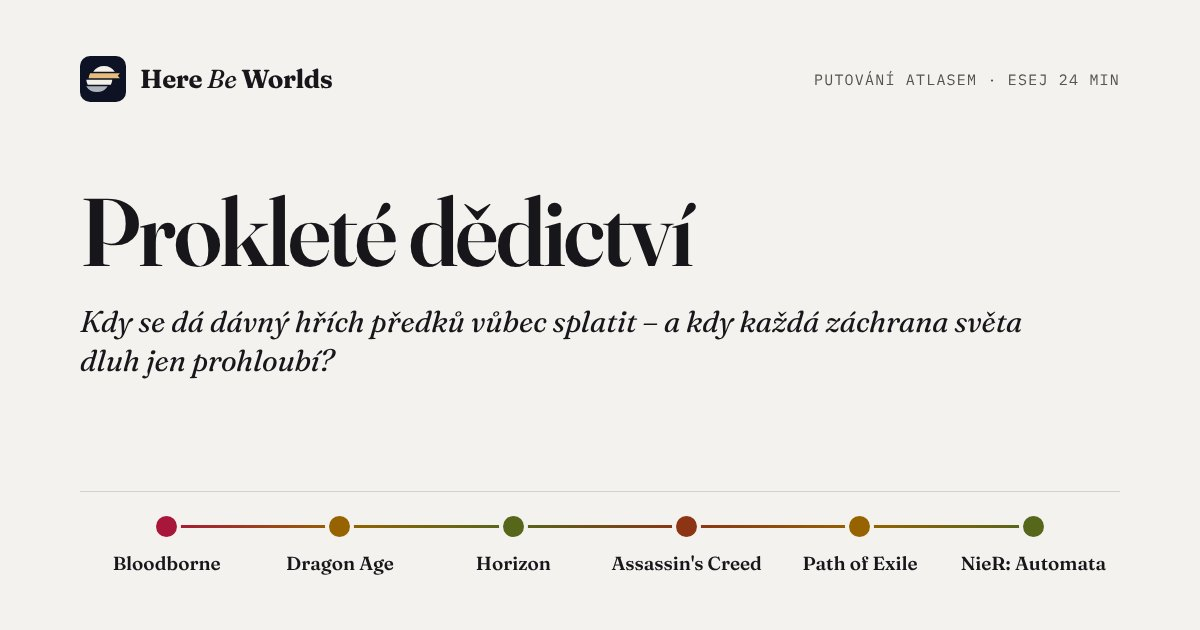
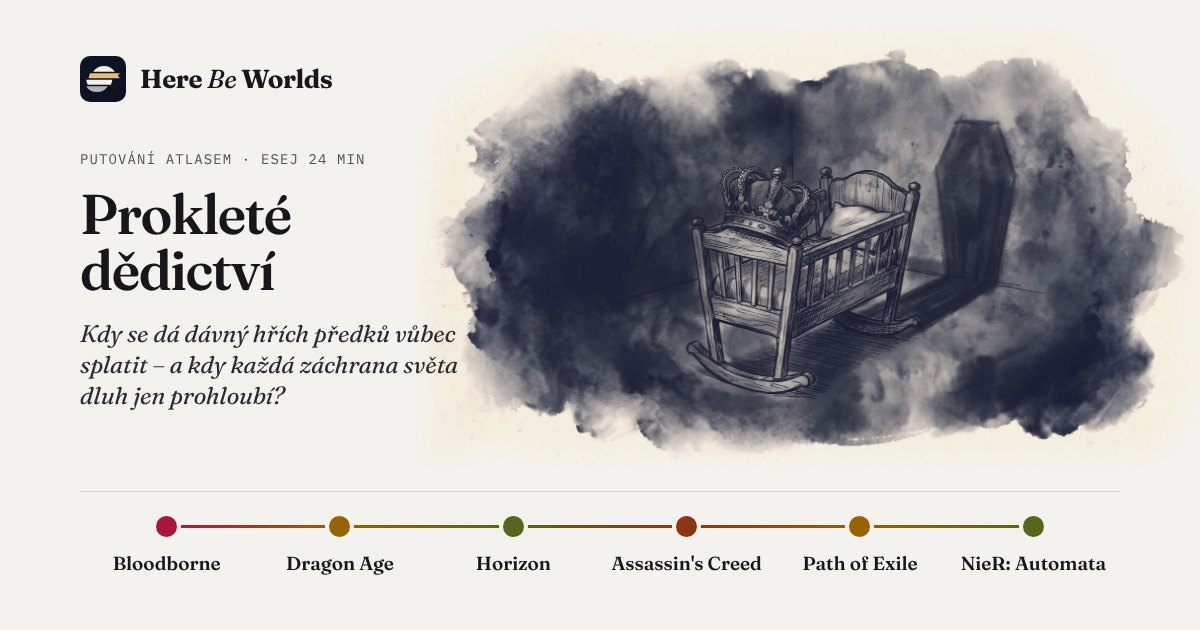
Obrázky k putování Prokleté dědictví: kolébka se stínem rakve, řetěz s dětským poutem, šperkovnice s mléčnými zuby
Claude-Session: https://claude.ai/code/session_01B7obWLKHHEWxurZ5a1svnf

diff --git a/src/lib/trail-images.ts b/src/lib/trail-images.ts
@@ -23,6 +23,7 @@ export const READY: Record<TrailId, number> = {
   'knows-you-play': 3,
   scapegoat: 3,
   'who-woke-up': 3,
+  'cursed-legacy': 3,
 };
 
 const DIR = 'putovani-obrazky';

diff --git a/docs/obrazky-putovani.md b/docs/obrazky-putovani.md
@@ -11,7 +11,7 @@ Stav 2026-11-23: styl nalezený po pěti kolech zkoušek (náhled `/putovani/nav
 - **Jedna myšlenka, malý předmět (majitel 2026-11-23, po nepovedeném kole Uvězněni v kruhu):** velké přeplněné scény (had s průvodem poutníků, nekonečné schodiště, ptačí klec se světem, koleje s planetami) majitel zamítl jako tematicky nesevřené a „poznat, že je to AI“. Nosná je jedna myšlenka na jednom malém předmětu nebo polocelku (vzor: kamenné víčko, žebřík opřený o nebe, gramofon). Vedlejší motivy jen tam, kde tvoří hlavní tvar (most z kořenů, copů a prádla), ne jako zástup figurek a symbolů.
 - **Víc motivů k objevování:** hlavní tvar ať je složený z několika nečekaných předmětů, které člověk objeví až při delším pohledu (vzor: most z dlažby, kořenů, copů a šňůr s prádlem; majitel 2026-11-23). Jen když dávají jednomu tvaru smysl, nikdy jako výčet symbolů tématu.
 - **Neopakovat se, nečekaný znepokojivý detail (majitel 2026-11-25, u Prokletého dědictví):** napříč putováními se začaly opakovat stejné rekvizity (klíčky, zrcadla, obrazy, botičky, stopy) a majitel to zamítl: „chce to přijít s něčím nečekaným, a o to víc znepokojivým, musí tam být nějaký nečekaný moment, detail“. Vzor: kolébka s korunou, jejíž stín na zdi je rakev. Postup: obyčejný předmět (domácí, dětský, rodinný), který na první pohled nic nenaznačuje, a jediný detail, který ho na druhý pohled převrátí. Před návrhem motivů projít seznam níže a nesáhnout po ničem, co v něm už je; když se rekvizita přece jen hodí, říct to majiteli předem. Témata smějí být temná a zlověstná, bez krve a násilí (v promptu `Avoid: … gore`; u temných putování Mood „ominous surrealism … heavy with dread“ místo „quiet“).
-- **Už použité rekvizity (doplňovat po každém putování):** klíče a klíčové dírky (klíč stočený do kruhu, měsíc jako klíčová dírka) · zrcadla (rukavice a zrcátko, zamlžené zrcadlo) · obrazy a rámy (stín, který vypadl z obrazu) · boty a stopy (stopy ve sněhu, prázdné boty u žebříku) · prázdné oděvy (plášť na trůnu, kabát ukazující cestu, rukavice) · žebra a kosti jako stavivo (katedrála ze žeber, jablko se žebry) · trůny (plášť na trůnu, trůn s břízou) · knihy, deníky a dopisy (postavička z knihy, můra z deníku, dopisy z hlavy sochy, hranice srolovaných dopisů) · hodiny (kavalerie z rozbitých hodin) · světla (lucerna, svíčka, oheň u gramofonu) · koště a brky (koště z brků) · kouř (sirka z kouře, beránek z kouře) · nábytek a pokoje (křesla za sklem, okno s pokojem na pláni, koberec nad jámou) · stín jako odhalení (stín klíče, stín z obrazu, stín chapadel u pulce, stín rakve u kolébky) · ostatní: městečko na jevišti s roztrženým nebem, vajíčko ve vajíčku, kamenné víčko, domy otáčející se za chodcem, most z dlažby, kořenů, copů a prádla, prapory z hejn ptáků, kolotoč z děl, žebřík opřený o nebe, gramofon s hvězdami, sklenice s pulcem, mince na hraně.
+- **Už použité rekvizity (doplňovat po každém putování):** klíče a klíčové dírky (klíč stočený do kruhu, měsíc jako klíčová dírka) · zrcadla (rukavice a zrcátko, zamlžené zrcadlo) · obrazy a rámy (stín, který vypadl z obrazu) · boty a stopy (stopy ve sněhu, prázdné boty u žebříku) · prázdné oděvy (plášť na trůnu, kabát ukazující cestu, rukavice) · žebra a kosti jako stavivo (katedrála ze žeber, jablko se žebry) · trůny (plášť na trůnu, trůn s břízou) · knihy, deníky a dopisy (postavička z knihy, můra z deníku, dopisy z hlavy sochy, hranice srolovaných dopisů) · hodiny (kavalerie z rozbitých hodin) · světla (lucerna, svíčka, oheň u gramofonu) · koště a brky (koště z brků) · kouř (sirka z kouře, beránek z kouře) · nábytek a pokoje (křesla za sklem, okno s pokojem na pláni, koberec nad jámou) · stín jako odhalení (stín klíče, stín z obrazu, stín chapadel u pulce, stín rakve u kolébky) · ostatní: městečko na jevišti s roztrženým nebem, vajíčko ve vajíčku, kamenné víčko, domy otáčející se za chodcem, most z dlažby, kořenů, copů a prádla, prapory z hejn ptáků, kolotoč z děl, žebřík opřený o nebe, gramofon s hvězdami, sklenice s pulcem, mince na hraně, řetěz s dětským poutem, šperkovnice s mléčnými zuby (a kolébka v seznamu stínů).
 - **Světlo:** výchozí je **čistě modrá tuš bez zlaté**. Zlatá (#E5BE7E) jen výjimečně, když ji řádek scény výslovně jmenuje a je jádrem motivu (klíčová dírka na nebi, oheň u gramofonu). Gemini jinak zlatou přidává sám (okénka, lucerny), protože ji má vzorový obrázek: proto prompt výslovně zakazuje převzít lampu ze vzoru (majitel 2026-11-23: „pořád stejné rozsvícené okýnko a lucerna“).
 - **Motiv:** detail nebo polocelek, ne velká scéna. Obraz s druhým čtením: na první pohled obyčejný, na druhý nese otázku eseje. Prázdný prostor kolem.
 - **Nikdy:** text, písmena, podpisy, rámečky; postavy, loga a místa z her; náboženské symboly; lidé (nanejvýš drobná postava zezadu, když to motiv potřebuje); cákance tuše; airbrush; uhlazená digitální linka.
@@ -23,7 +23,7 @@ Stav 2026-11-23: styl nalezený po pěti kolech zkoušek (náhled `/putovani/nav
 - Masky: `maska/<slug>-N.png` podle tuše pro tmavý motiv (`python3 scripts/ink-masks.py`, pak zkopírovat z `navrh-obrazku/maska/`, nebo upravit cestu ve skriptu), `maska/freska.png` obecná.
 - Které putování obrázky má: `READY` v `src/lib/trail-images.ts`. Obrázky se ukážou jen u schválené eseje.
 - Rejstřík `/putovani/` má rozvržení karet ve dvou sloupcích s obrázkem nahoře (C, vybráno ze tří variant: A obraz za textem, B střídavé desky). Dokud nemají obrázky všechna putování, stojí vedle karty s obrázkem textové karty.
-- Na webu (2026-11-23): Hra ví, že ji hraješ (městečko na jevišti s roztrženým namalovaným nebem; postavička vylezlá z ilustrace v knize; stín, který vypadl z obrazu na podlahu); Na mrtvole boha (tři: prázdný plášť na trůnu držený provazy davu; trůn, kterým prorůstá bříza; jablko s žebry místo jádřince); Netvor v zrcadle (zatím jeden: stopy ve sněhu, které se z bot mění v tlapy); Mluví už jen mrtví (tři: prázdný kabát, který ukazuje cestu; můra s křídly z deníku; potopená hlava sochy, z níž stoupají listy dopisu k loďce); Uvězněni v kruhu (tři: klíč stočený do kruhu se stínem rovného klíče; vajíčko ve vajíčku; z kouře dohořelé sirky nová sirka); Bohové jako břemeno (katedrála ze žeber, kamenné víčko); Město, které dýchá (domy, které se otáčejí za chodcem; most z dlažby, kořenů, copů a prádla); Dům, ze kterého nejde odejít (měsíc jako zlatá klíčová dírka nad městečkem, okno uprostřed pláně s pokojem uvnitř). Válka, kterou nikdo nevyhraje (tři obrázky: prapory z hejn ptáků, kolotoč z děl, kavalerie z rozbitých hodin se svíčkou v temnu); Pod lhostejnými hvězdami (žebřík opřený o nebe s prázdnými botami a lucernou, gramofon, ze kterého se sypou hvězdy, u táboráku); Kdo za to může? (tři: prázdná rukavice ukazuje na zrcátko a odraz ukazuje zpět na diváka; koberec, pod jehož rohem je jáma se schody a koště z brků; z hranice srolovaných dopisů odplouvá kouř jako spící beránek, 2026-11-25); Kdo se to probudil? (tři: zamlžené zrcadlo nad umyvadlem, v jehož setřeném pruhu je další zrcadlo; dvě stejná křesla v pokoji rozděleném sklem, které prochází mincí na hraně; sklenice s pulcem, jehož stín na zdi jsou chapadla; 2026-11-25). Postup: 5 motivů, vybrat 2. **Motivy: surrealismus a neobvyklé kompozice, klidně velké měřítko a zachycený pohyb (Magritte, Dalí), neobvyklé spojení předmětů (v duchu Magritta), jen lehce doslovné** — první kolo s doslovnými motivy (tapeta, dveře, kolébka) majitel zamítl jako nenápadité. Do promptu řádek `Mood: subtle surrealism in the spirit of Magritte: one unexpected combination, quiet and uncanny, never literal or explanatory. Rich in discoverable detail: several unexpected secondary motifs are woven into the main forms, so the viewer keeps finding new things on a second look.` Po přidání prvního obrázku obnovit kartu pro sdílení: `npm run og -- <slug> putovani` (fonty a Chromium viz CLAUDE.md). Masky: `python3 scripts/ink-masks.py public/putovani-obrazky/<slug>-1.jpg …`; když je světlý papír uprostřed součástí motivu (mezera mezi konci mostu), přidej `--fill`. Skript dělá dvě masky: `<soubor>.png` pro tmavý motiv a širokou `<soubor>-light.png` pro světlý (papír tam schová multiply a lehké vybělení `brightness(1.06) saturate(0.8)`, maska nesmí zamlžit slabé tahy; majitel 2026-11-23). Ve světlém motivu se v eseji kresba ořezává jen širokou maskou (fresková by ořízla tahy štětce nahoře a stopy u spodního okraje); v tmavém motivu (esej i rejstřík) jen fresková maska: tvar je vždy **zvlněný obdélník do ztracena**, nikdy vykrojený podle skvrn tuše (majitel 2026-11-23). Zkoušený okraj podle tahů štětce se světlým lemem majitel zamítl jako „příliš“: v tmavém motivu okraje nebudou tak působivé jako ve světlém a je to tak správně; v rejstříku zůstává i fresková (obrázek je tam oříznutý na 3 : 2).
+- Na webu (2026-11-23): Hra ví, že ji hraješ (městečko na jevišti s roztrženým namalovaným nebem; postavička vylezlá z ilustrace v knize; stín, který vypadl z obrazu na podlahu); Na mrtvole boha (tři: prázdný plášť na trůnu držený provazy davu; trůn, kterým prorůstá bříza; jablko s žebry místo jádřince); Netvor v zrcadle (zatím jeden: stopy ve sněhu, které se z bot mění v tlapy); Mluví už jen mrtví (tři: prázdný kabát, který ukazuje cestu; můra s křídly z deníku; potopená hlava sochy, z níž stoupají listy dopisu k loďce); Uvězněni v kruhu (tři: klíč stočený do kruhu se stínem rovného klíče; vajíčko ve vajíčku; z kouře dohořelé sirky nová sirka); Bohové jako břemeno (katedrála ze žeber, kamenné víčko); Město, které dýchá (domy, které se otáčejí za chodcem; most z dlažby, kořenů, copů a prádla); Dům, ze kterého nejde odejít (měsíc jako zlatá klíčová dírka nad městečkem, okno uprostřed pláně s pokojem uvnitř). Válka, kterou nikdo nevyhraje (tři obrázky: prapory z hejn ptáků, kolotoč z děl, kavalerie z rozbitých hodin se svíčkou v temnu); Pod lhostejnými hvězdami (žebřík opřený o nebe s prázdnými botami a lucernou, gramofon, ze kterého se sypou hvězdy, u táboráku); Kdo za to může? (tři: prázdná rukavice ukazuje na zrcátko a odraz ukazuje zpět na diváka; koberec, pod jehož rohem je jáma se schody a koště z brků; z hranice srolovaných dopisů odplouvá kouř jako spící beránek, 2026-11-25); Kdo se to probudil? (tři: zamlžené zrcadlo nad umyvadlem, v jehož setřeném pruhu je další zrcadlo; dvě stejná křesla v pokoji rozděleném sklem, které prochází mincí na hraně; sklenice s pulcem, jehož stín na zdi jsou chapadla; 2026-11-25); Prokleté dědictví (tři: kolébka s korunou, jejíž stín je rakev, křížek na koruně vyretušovaný; řetěz z praskliny v zemi s otevřeným dětským poutem, hnědý nádech řetězu převedený do indiga; šperkovnice s náhrdelníkem z mléčných zubů; 2026-11-25). Postup: 5 motivů, vybrat 2. **Motivy: surrealismus a neobvyklé kompozice, klidně velké měřítko a zachycený pohyb (Magritte, Dalí), neobvyklé spojení předmětů (v duchu Magritta), jen lehce doslovné** — první kolo s doslovnými motivy (tapeta, dveře, kolébka) majitel zamítl jako nenápadité. Do promptu řádek `Mood: subtle surrealism in the spirit of Magritte: one unexpected combination, quiet and uncanny, never literal or explanatory. Rich in discoverable detail: several unexpected secondary motifs are woven into the main forms, so the viewer keeps finding new things on a second look.` Po přidání prvního obrázku obnovit kartu pro sdílení: `npm run og -- <slug> putovani` (fonty a Chromium viz CLAUDE.md). Masky: `python3 scripts/ink-masks.py public/putovani-obrazky/<slug>-1.jpg …`; když je světlý papír uprostřed součástí motivu (mezera mezi konci mostu), přidej `--fill`. Skript dělá dvě masky: `<soubor>.png` pro tmavý motiv a širokou `<soubor>-light.png` pro světlý (papír tam schová multiply a lehké vybělení `brightness(1.06) saturate(0.8)`, maska nesmí zamlžit slabé tahy; majitel 2026-11-23). Ve světlém motivu se v eseji kresba ořezává jen širokou maskou (fresková by ořízla tahy štětce nahoře a stopy u spodního okraje); v tmavém motivu (esej i rejstřík) jen fresková maska: tvar je vždy **zvlněný obdélník do ztracena**, nikdy vykrojený podle skvrn tuše (majitel 2026-11-23). Zkoušený okraj podle tahů štětce se světlým lemem majitel zamítl jako „příliš“: v tmavém motivu okraje nebudou tak působivé jako ve světlém a je to tak správně; v rejstříku zůstává i fresková (obrázek je tam oříznutý na 3 : 2).
 
 ## Jak generovat
 

diff --git a/CLAUDE.md b/CLAUDE.md
@@ -83,7 +83,7 @@ Kroniky a eseje **nejsou** v `data/`.
 | `/notes/` | `src/pages/notes/index.astro` | `NotesPage` — obsah oddílů (lepí se pod hlavičku, oddíl, který čteš, je podtržený; na telefonu jeden řádek posuvný do strany, 2026-11-25), rejstříkový seznam pojmů (štítek vlevo, výklad vpravo), legenda 1–5 jako pruh os; oddíly Charakter světa · Profil světa · Triáda (tři pojmy s odkazy do Anatomie a do Galerie triád / Mapy neznáma, pod nimi typy hříchů, dilemata, druhy tajemství a kdo drží mezeru s ikonami – texty z `triad-types.json`, 2026-11-24 se souhlasem majitele) · Příbuznost světů (4 pilíře, 5 stupňů slovy, bez procent) · Kompas a ladění · Hlubina času (2026-11-25 s pokynem majitele: šest pojmů – sloupec a hladina, období her a rysky, dějiny a fundamentální události, odhad, mýtus a cyklus, stupnice, naše časová osa – a odkaz na stránku; `noteDeepTime*`) · Kánon (texty v `data/meta/notes.ts`) |
 | `/anatomie-herniho-lore/` | `src/pages/anatomie-herniho-lore/index.astro` | `EssayPage` (obsah `ReadingToc` vlevo, čtecí sloupec jako kronika, doba čtení pod podtitulem) |
 | `/teoreticke-zazemi/` | `src/pages/teoreticke-zazemi/index.astro` | `EssayPage` z `content/essays/teoreticke-zazemi.md`: prameny atlasu po oblastech (fikční světy, fantastika, herní studia, hrůza a posvátno, mýtus, paměť, osoba a identita, moc a dohled, dílna tvůrců), tabulka pojmů, výhrady k autorům, co by sem ještě patřilo, seznam literatury. Odkaz z Anatomie (oddíl Na čem metoda stojí) a z patičky. **Po zapracování nové knihy doplnit i sem.** |
-| `/putovani/` | `src/pages/putovani/index.astro` | `TrailsIndex` (`src/components/trails/`, styly `trails.css`): hlavička jako atlas, filtry **Svět** a **Téma** (rozsvítí stezky, kterými svět prochází / které se tématu dotýkají, ostatní ztlumí; `?svet=<id>`, `?tema=<slug>`; klik na téma v řádku dělá totéž, jméno světa v kartě vede rovnou na spis světa (majitel 2026-11-24)); rejstřík 22 stezek jako **karty ve dvou sloupcích** (rozvržení C, majitel 2026-11-23; karta: obrázek nahoře přes celou šířku karty do ztracena, 3 : 2, pak název, popis, světy s linkou v barvě archetypu nad každým jménem, témata eseje jako hranaté štítky na tónovaném podkladu (vybrané téma v akcentu) = `themes` v `trails.ts`, 2–4 na stezku, a za nimi „Esej · N min“; karta bez obrázku je jen text; na telefonu jeden sloupec); oddíl **Kde se stezky kříží** (mřížka stezky × všechny světy podle abecedy, i ty na jediné stezce, vpravo počet (majitel 2026-11-22), tečka v barvě archetypu, pod kurzorem se rozsvítí sloupec i řádek, názvy stezek nahoře i dole; na telefonu seznam dvanácti nejvíc křížených světů). V hlavičce webu odkaz Putování hned za Atlasem; Putování dne na titulní straně vedou na stránky putování. Staré adresy `/stezky/…` přesměrovávají (`src/pages/stezky/`, `RedirectPage.astro`). Obrázky k putováním (jediné místo na webu s obrázky): styl a postup `docs/obrazky-putovani.md`, soubory `public/putovani-obrazky/`, seznam `READY` v `src/lib/trail-images.ts`; náhled v rejstříku (`TrailsIndex images`) a v eseji pod úvodním citátem a uprostřed (`EssayPage hero/hero2/heroLive`), okraj do ztracena maskou. Zatím Bohové jako břemeno, Dům, ze kterého nejde odejít, Pod lhostejnými hvězdami, Válka, kterou nikdo nevyhraje, Město, které dýchá, Uvězněni v kruhu, Mluví už jen mrtví, Netvor v zrcadle, Na mrtvole boha, Hra ví, že ji hraješ, Kdo za to může? a Kdo se to probudil?. Zkušební náhled `/putovani/navrh-obrazku/` (noindex). |
+| `/putovani/` | `src/pages/putovani/index.astro` | `TrailsIndex` (`src/components/trails/`, styly `trails.css`): hlavička jako atlas, filtry **Svět** a **Téma** (rozsvítí stezky, kterými svět prochází / které se tématu dotýkají, ostatní ztlumí; `?svet=<id>`, `?tema=<slug>`; klik na téma v řádku dělá totéž, jméno světa v kartě vede rovnou na spis světa (majitel 2026-11-24)); rejstřík 22 stezek jako **karty ve dvou sloupcích** (rozvržení C, majitel 2026-11-23; karta: obrázek nahoře přes celou šířku karty do ztracena, 3 : 2, pak název, popis, světy s linkou v barvě archetypu nad každým jménem, témata eseje jako hranaté štítky na tónovaném podkladu (vybrané téma v akcentu) = `themes` v `trails.ts`, 2–4 na stezku, a za nimi „Esej · N min“; karta bez obrázku je jen text; na telefonu jeden sloupec); oddíl **Kde se stezky kříží** (mřížka stezky × všechny světy podle abecedy, i ty na jediné stezce, vpravo počet (majitel 2026-11-22), tečka v barvě archetypu, pod kurzorem se rozsvítí sloupec i řádek, názvy stezek nahoře i dole; na telefonu seznam dvanácti nejvíc křížených světů). V hlavičce webu odkaz Putování hned za Atlasem; Putování dne na titulní straně vedou na stránky putování. Staré adresy `/stezky/…` přesměrovávají (`src/pages/stezky/`, `RedirectPage.astro`). Obrázky k putováním (jediné místo na webu s obrázky): styl a postup `docs/obrazky-putovani.md`, soubory `public/putovani-obrazky/`, seznam `READY` v `src/lib/trail-images.ts`; náhled v rejstříku (`TrailsIndex images`) a v eseji pod úvodním citátem a uprostřed (`EssayPage hero/hero2/heroLive`), okraj do ztracena maskou. Zatím Bohové jako břemeno, Dům, ze kterého nejde odejít, Pod lhostejnými hvězdami, Válka, kterou nikdo nevyhraje, Město, které dýchá, Uvězněni v kruhu, Mluví už jen mrtví, Netvor v zrcadle, Na mrtvole boha, Hra ví, že ji hraješ, Kdo za to může?, Kdo se to probudil? a Prokleté dědictví. Zkušební náhled `/putovani/navrh-obrazku/` (noindex). |
 | `/putovani/[id]/` | `src/pages/putovani/[id].astro` | Stránka každého putování, adresa = český slug z `TRAIL_SLUGS` (`trails.ts`), stejný jako soubor eseje v `content/trails/`. `EssayPage` s `trail`: pod hlavičkou `TrailCast` (světy) a `TrailThemes` (témata → `/putovani/?tema=`), před Zdroji `TrailWorlds` (souřadnice s výraznými názvy, seznam světů s archetypem a podžánrem). **Esej se ukáže jen s `approved: true` ve frontmatteru** (schvaluje majitel); jinak stránka ukáže rámeček „Esej připravujeme“, Světy putování a oddíl „Na čem putování stojí“ (jména pramenů z tabulky Prameny podle stezek v `docs/prameny/README.md`, `trailSources` v `src/lib/trail-pages.ts`). Neschválené eseje mají náhled `/putovani/navrh/<slug>/` (`noindex`, z webu na něj nic nevede). Schválené (2026-11-21): `na-mrtvole-boha`, `kdo-za-to-muze`, `kdo-se-to-probudil`, `netvor-v-zrcadle`, `mluvi-uz-jen-mrtvi`, `bohove-jako-bremeno`, `valka-kterou-nikdo-nevyhraje`, `proklete-dedictvi`, `krehka-hranice-svobodne-vule`, `uvezneni-v-kruhu`, `hra-vi-ze-ji-hrajes`, `raj-ktery-se-nepovedl`, `logo-nad-troskami`, `smich-nad-propasti`, `mesto-ktere-dycha`, `pod-lhostejnymi-hvezdami`, `kdo-drzi-kroniku`, `kopie-bez-originalu`, `dum-ze-ktereho-nejde-odejit`, `prace-ktera-nikdy-nekonci`, `jmeno-jako-klic-i-kletba`, `nakaza-s-vlastni-vuli` (všech 22). |
 | `/temata/` | `src/pages/temata/index.astro` | `ThemesIndex` (`src/components/themes/`, styly `themes.css`, 2026-11-24): pás hlavičky, řazení Podle abecedy / Podle počtu světů, rejstřík témat ve dvou sloupcích (název → stránka tématu, otázka kurzívou, otisk světů jako čtverečky v barvě archetypu, počet světů a putování) a **Kde se témata potkávají** (trojúhelníková mřížka téma × téma, kruh podle počtu světů s oběma tématy, prázdné šrafované, najetí rozsvítí řádek i sloupec a vypíše dvojici; na telefonu skrytá). |
 | `/temata/[slug]/` | `src/pages/temata/[slug].astro` | `ThemePage`, adresa = český název bez diakritiky (`themePageSlug` v `src/lib/themes.ts`). Hlavička v pásu: štítek „Téma“ (odkaz na rejstřík), název, otázka, „N světů · N archetypů · N putování“, vpravo **obloha z titulní strany v tuši** (`ThemeSky`; hvězdy na stejných místech díky `src/lib/sky.ts`, světy tématu rozsvícené v barvě archetypu a spojené přerušovanou nejkratší trasou, ostatní tlumeně; najetí na hvězdu ukáže jméno). Oddíly: **Světy** (záznamy ve třech sloupcích: linka v barvě archetypu, název, archetyp · podžánr, jádro kurzívou; najetí rozsvítí hvězdu) · **Podoba tématu** (Archetypy: řádek na archetyp, čtverečky = všechny jeho světy, plné = s tématem; Souřadnice: `AxisRange` s prázdným kosočtvercem průměru celého atlasu `reference`) · **Putování** (putování s tématem v `trails.ts` `themes`, první obrázek přes masku, otázka eseje, trasa světů, světy tématu tučně) · **Potkává se s** (šest témat nejčastěji ve stejných světech, `neighbourThemes`; není to příbuznost světů) · odkazy Otevřít v atlasu · Všechna témata. Podklady skládá při sestavení `src/lib/theme-pages.ts`. Odkazy na stránky témat: hledání (lupa), atlas (Další pohledy a „O tématu …“ pod počtem výsledků při filtru tématu), patička. Témata na kartě světa vedou na stránky témat (majitel 2026-11-24). |
